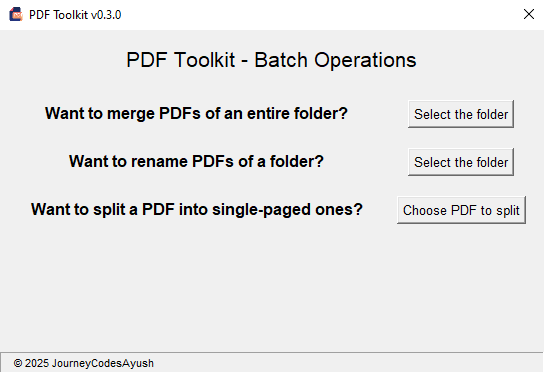
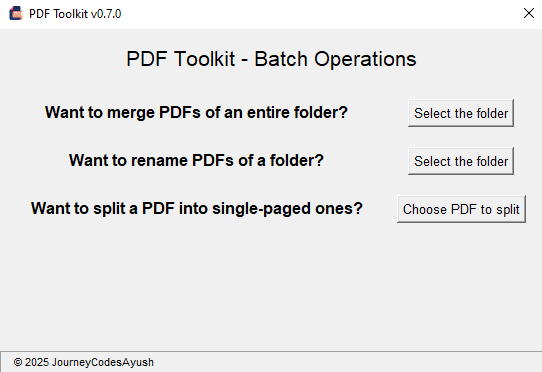
docs(readme): update screenshots and assets/ for v0.7.0 release

diff --git a/README.md b/README.md
@@ -18,17 +18,16 @@ Welcome to **PDF Toolkit** – a clean and simple desktop app built to help you 
 
 ## 📦 Latest Version
 
-**Version:** [v0.5.0](https://github.com/JourneyCodesAyush/PDF-Toolkit/releases/tag/v0.5.0)  
-**Release Date:** July 26, 2025  
+**Version:** [v0.7.0](https://github.com/JourneyCodesAyush/PDF-Toolkit/releases/tag/v0.7.0)  
+**Release Date:** August 15, 2025  
 **Status:** Pre-release  
-**Download:** [PDF-Toolkit.v0.5.0.zip](https://github.com/JourneyCodesAyush/PDF-Toolkit/releases/download/v0.5.0/PDF-Toolkit.v0.5.0.zip)
+**Download:** [PDF-Toolkit.v0.7.0.zip](https://github.com/JourneyCodesAyush/PDF-Toolkit/releases/download/v0.7.0/PDF-Toolkit.v0.7.0.zip)
 
 > This is a **pre-release** of PDF Toolkit. It includes the following key improvements:
 
-- 🐞 **Bug Fixes and Validations**:
-  - Added filename validation in **rename** module
-  - Improved overwrite protection and validation logic in **merge** and **batch-merge**
-  - Resolved runtime error in **batch-split** by assigning output directory before checks
+- ✨ **New Features**:
+  - Added a new **Extract** module to extract custom page ranges from PDFs (e.g., `5-7`)
+  - Added unit tests for the Extract module
 
 ---
 
@@ -37,6 +36,7 @@ Welcome to **PDF Toolkit** – a clean and simple desktop app built to help you 
 - 🔗 **Merge PDFs** – Combine multiple PDF files into one.
 - ✏ **Rename PDFs** – Give your PDF files cleaner, more meaningful names.
 - ✂ **Split PDFs** – Break up large PDFs into smaller files or extract specific pages.
+- - 📤 **Extract PDFs** – Extract custom page ranges or specific pages from PDFs.
 - 🏷 **Batch Processing** – Perform batch operations like merging all PDFs in a folder into one (with optional move), rename PDFs of entire folder at once, or split a PDF into multiple single-paged PDFs at once. 
 - 🎯 **User-friendly interface** – No learning curve, just click and go.
 - ⚡ **Lightweight & fast** – Minimal dependencies and blazing performance.
@@ -152,7 +152,7 @@ pdf_toolkit/
 ---
 
 ## 🧪 Testing
-As of ***v0.6.0***, *PDF Toolkit* includes a growing suite of unit tests to ensure the reliability of its core and batch features.
+As of ***v0.7.0***, *PDF Toolkit* includes a growing suite of unit tests to ensure the reliability of its core and batch features.
 
 ### ✅ How to Run Tests
 1. Make sure `pytest` is installed:
@@ -279,7 +279,7 @@ Special thanks to ChatGPT (OpenAI) for helping with coding, documentation, and g
 
 ## 📚 Developer Notes (Optional Read)
 
--  Manipulating PDFs using Python's `PyPDF2` (merge, split, extract pages)
+-  Manipulating PDFs using Python's `PyPDF2` (merge, split, extract custom page ranges)
 -  File system handling with Python's `os` module
 -  Using `pytest` for testing, with shared `fixtures` in `conftest.py`
 -  Creating and auto-cleaning temporary directories with `tempfile`
